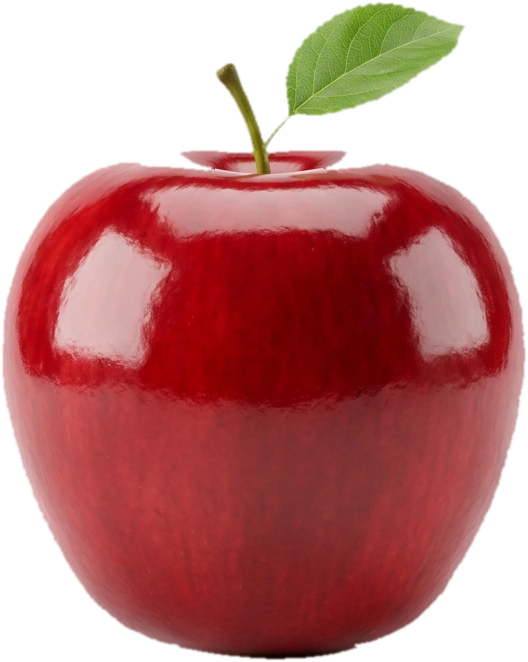
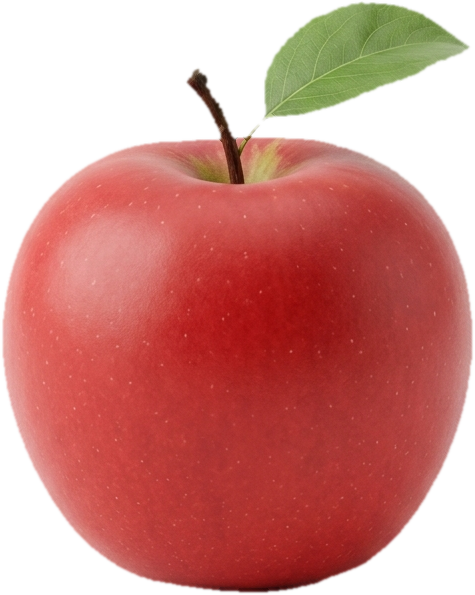
design: replace apple with matte render and distribute fruits vertically along layout height

diff --git a/frontend/src/layouts/DefaultLayout.vue b/frontend/src/layouts/DefaultLayout.vue
@@ -90,18 +90,18 @@ provide('navbarControl', { setNavbarRecede })
 }
 
 .fruit {
-  position: fixed;
+  position: absolute;
   background-repeat: no-repeat;
   background-position: center;
   background-size: contain;
-  opacity: 0.15;
+  opacity: 0.12;
   pointer-events: none;
   z-index: 0;
   transition: opacity 0.5s ease, transform 0.5s ease;
 }
 
 .fruit-apple {
-  top: 12%;
+  top: 8%;
   left: 2%;
   width: 260px;
   height: 260px;
@@ -119,7 +119,7 @@ provide('navbarControl', { setNavbarRecede })
 }
 
 .fruit-berry {
-  top: 18%;
+  top: 32%;
   right: 3%;
   width: 220px;
   height: 220px;
@@ -128,7 +128,7 @@ provide('navbarControl', { setNavbarRecede })
 }
 
 .fruit-melon {
-  bottom: 8%;
+  top: 85%;
   right: 2%;
   width: 320px;
   height: 320px;